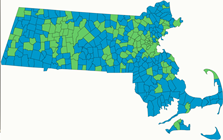
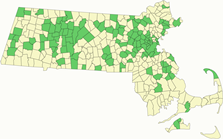
Restyle the map

Changed region(s): [[0.0, 0.0, 1.0, 0.9496], [0.8879, 0.9209, 0.9955, 1.0]]

diff --git a/style/style.css b/style/style.css
@@ -269,25 +269,6 @@ body {
     float: left;
 }
 
-div.map
-{
-    display: block;
-    border: 1px dashed #ccc;
-    
-    margin: 10px 5px 15px 35px;
-    padding: 8px 5px 8px 5px;
-    -moz-border-radius: 8px;
-    -webkit-border-radius: 8px;
-    border-radius: 8px;
-
-    font-size: 14px;
-    font-style: italic;
-    font-family: georgia;
-   /* color: #666;*/
-    text-align: left;
-    float: left;
-	
-}
 
 span.phone
 {
@@ -386,6 +367,27 @@ img.logo
 	z-index: 99;
 	position: absolute;
 }
+
+div.map
+{
+    display: block;
+    border: 1px dashed #ccc;
+    
+    margin: 10px 5px 15px 50px;
+    padding: 8px 5px 20px 5px;
+    -moz-border-radius: 8px;
+    -webkit-border-radius: 8px;
+    border-radius: 8px;
+
+    font-size: 14px;
+    font-style: italic;
+    font-family: georgia;
+   /* color: #666;*/
+    text-align: left;
+    float: center;
+    
+}
+
 
 img.MA_map
 {

diff --git a/shared/navigation.php b/shared/navigation.php
@@ -41,10 +41,10 @@
 		<div class="green bold">The Stretch Energy Code by City</div>
 		<img src="/images/MA_map.png" alt="Massachusetts map" class="MA_map" >
 					
-		<div class="check_code" style="margin-top: -30px; position:absolute; z-index: 99; ">
+		<div class="check_code" style="margin-top: -50px; position:absolute; z-index: 99; ">
 			<?$city=getCityByIp(getRealIpAddr());?>
-			<div class="green bold"><?=$city;?></div>
-			<a href="#?w=400" rel="popup_check_code" class="poplight" >cnange</a>
+			<div style="font-size: 16px;" ><?=$city;?></div>
+			<a href="#?w=400" rel="popup_check_code" class="poplight" style="font-size: 10px">(change)</a>
 		</div>
 		
 		<div class="blue bold" style="margin-top: 0px; position:absolute; z-index: 99;  font-size:14px; width: 212px;">

diff --git a/geo/functions.php b/geo/functions.php
@@ -46,7 +46,7 @@ function getCityByIp($ipaddress)
 
 	if(empty($city)) $city="Boston";
 	
-	return $city;
+	return $city . ", MA";
 	
 }
 
